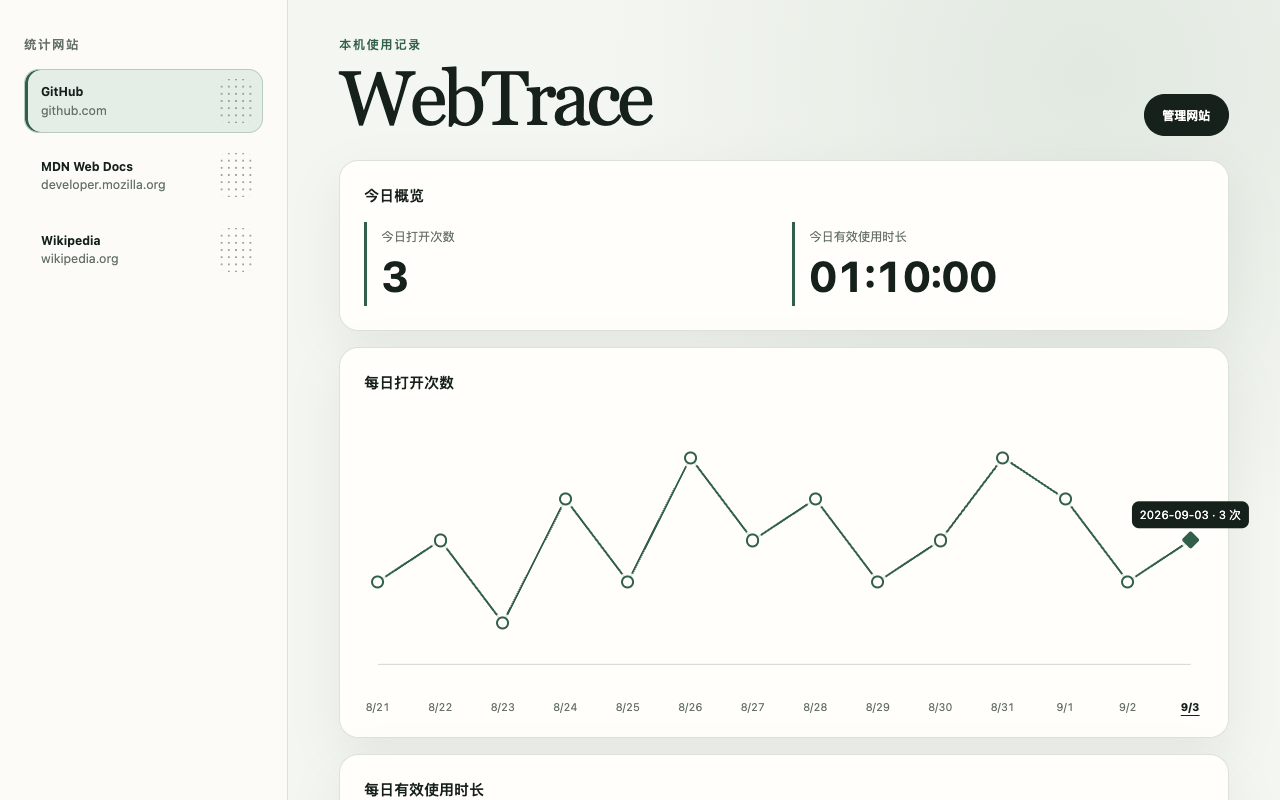
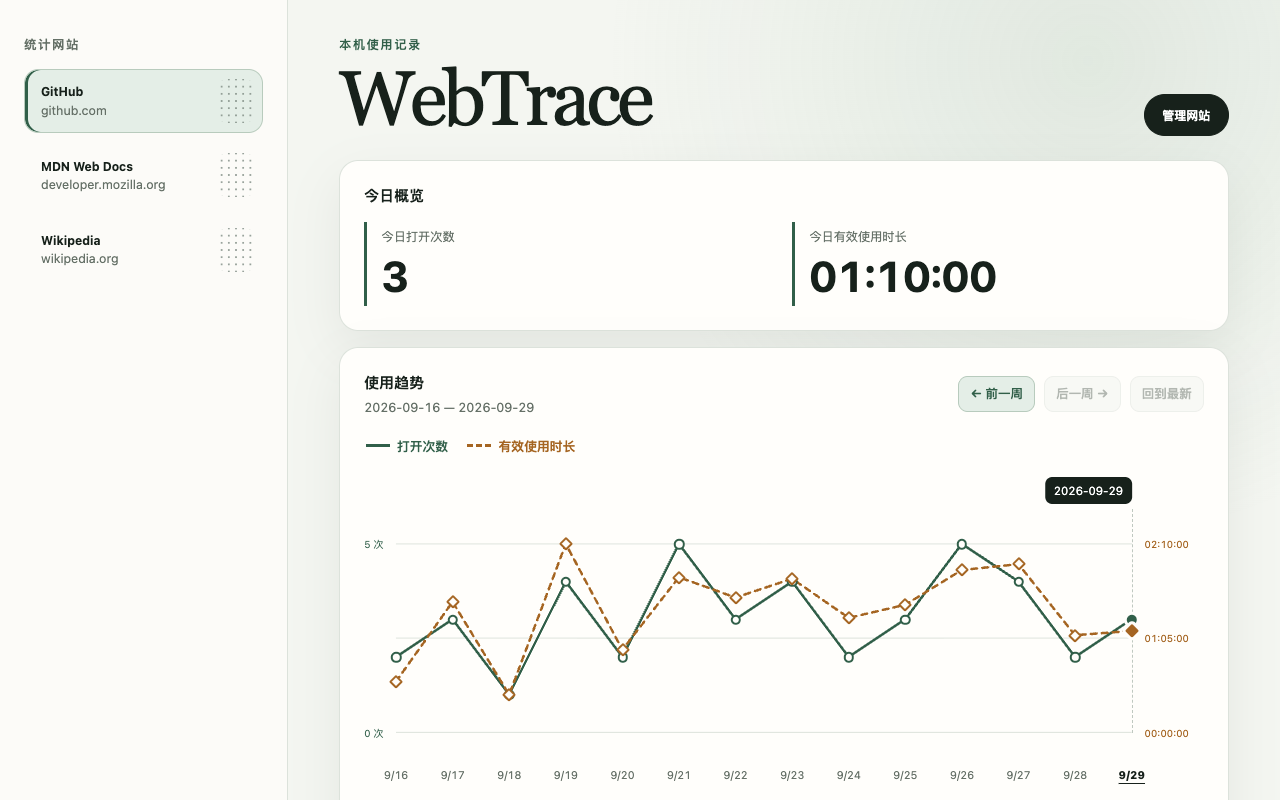
docs: 同步 WebTrace 功能说明与商店素材

diff --git a/src/analysis/view.js b/src/analysis/view.js
@@ -333,7 +333,7 @@ export function createAnalysisView({
     disclosureHeading.setAttribute("id", "privacy-disclosure-title");
     disclosure.setAttribute("aria-labelledby", "privacy-disclosure-title");
     const disclosureSummary = element(document, "p", {
-      text: "WebTrace 会记录你填写的网站名称和主域名、打开时间、结束时间及有效观看时长，用于展示打开次数、最近 14 天趋势和访问明细。",
+      text: "WebTrace 会记录你填写的网站名称和主域名、打开时间、结束时间及有效观看时长，用于展示打开次数、有效时长趋势和访问明细。趋势默认展示最近 14 天，支持按周回看更早记录。",
     });
     const disclosureDetails = element(document, "ul");
     for (const text of [

diff --git a/tests/manifest.test.js b/tests/manifest.test.js
@@ -9,7 +9,7 @@ test("declares only the runtime permissions and HTTP(S) content injection", asyn
   assert.equal(manifest.version, "1.1.0");
   assert.equal(
     manifest.description,
-    "WebTrace 在本机统计你配置的网站打开次数与有效观看时长，并展示最近 14 天趋势和访问明细。",
+    "WebTrace 在本机统计你配置的网站打开次数与有效观看时长，提供可按周回看的 14 天双线趋势和访问明细。",
   );
   assert.equal(manifest.minimum_chrome_version, "102");
   assert.deepEqual(

diff --git a/docs/current/project.md b/docs/current/project.md
@@ -1,8 +1,10 @@
 # 项目当前状态
 
-> 最后更新：2026-09-29（Asia/Shanghai，时间轴交互与验证）；发布资料基线核验于 2026-09-03。
+> 最后更新：2026-09-29（Asia/Shanghai，时间轴交互、文案与截图、用户人工验收与候选包状态）；外部状态见各项核验日期。
 
 当前 WebTrace 支持配置多个网站，在本机记录有效打开和有效观看时长；分析页显示今日概览、每屏 14 个本地日的双线趋势和选中日期的逐次访问明细。时间轴支持每次前后移动一周和回到最新；悬停某条线会突出该指标及每天数值，浮层只显示完整日期。左侧网站列表支持长按排序，添加网站前显著披露本地数据处理并要求主动确认。2026-09-29 当前代码自动测试为 158/158，通过隔离 Chromium 专项验证；本次时间轴改动尚未经日常 Chrome 人工验收。
+
+2026-09-29 用户已确认日常 Google Chrome 中的重新加载、隐私确认、网站新增、实际计时和隐私页面五项人工验收通过。当前时间轴实现及文案与既有上传 ZIP 不一致；本次人工确认尚未绑定具体加载目录、提交或包校验值。发布前需确定最终候选并核验对应安装包。商店后台最后记录仍为 2026-09-03 的未提交状态，本次未登录核验。
 
 ## 内容边界
 
@@ -62,6 +64,7 @@
 - 网站添加、排序和删除历史通过受信任扩展消息交给后台串行处理；网页上下文不能发送管理命令。
 - 运行时代码不调用 `fetch`、`XMLHttpRequest`、`WebSocket` 或 `EventSource`，不加载远程资源，不保存完整 URL、路径、查询参数或网页标题。
 - 访问记录默认长期保留，当前分析页可按周查询和展示最近 14 天以前的数据。
+- 扩展摘要、添加网站前的告知和商店文案已对齐为默认展示最近 14 天、支持按周回看更早记录；此次只更新展示说明，没有改变采集范围、权限、保留、删除或数据传输规则。
 
 ### 商店发布材料
 
@@ -69,8 +72,9 @@
 - `npm run capture:store` 使用 Playwright 自带 Chromium 和临时隔离 profile 重现截图，结束后删除 profile；不读取日常 Chrome 数据。
 - `npm run render:icons` 从可审查的平面母版重现四种图标；宣传图母版由内置 ImageGen 生成，最终素材保存在仓库。
 - [`store-publishing.md`](store-publishing.md) 是商店标题、摘要、详细描述、分类、语言、单一用途、权限理由、隐私实践、URL、测试说明和提交步骤的当前来源。
[1 lines of base64/hex data omitted]
-- `zhangrh.shop` 已公开部署[主页](https://zhangrh.shop/webtrace/)、[支持页](https://zhangrh.shop/webtrace/support/)和[隐私政策](https://zhangrh.shop/webtrace/privacy/)；2026-09-03 在桌面与 390px 视口核验三页、资源和内部链接，无鉴权、404、横向溢出或控制台错误。站点实现 revision 为 `0c83897`，文档收口 revision 为 `59c649f`。
[1 lines of base64/hex data omitted]
+- `zhangrh.shop` 已公开部署[主页](https://zhangrh.shop/webtrace/)、[支持页](https://zhangrh.shop/webtrace/support/)和[隐私政策](https://zhangrh.shop/webtrace/privacy/)；2026-09-29 发布后，隔离 Chromium `151.0.7922.34` 在 1280×800 与 390×844 视口核验新文案、政策日期和截图，无鉴权、404、横向溢出、图片加载失败或控制台错误、警告。公网 HTML 与静态资源内容和本地发布产物一致。
+- 同日官网首页、支持、中英隐私政策、Hub 作品卡及合成截图均已上线；文案说明默认最近 14 天与按周回看，数据处理范围不变。官网内容和发布验证的权威来源为 `zhangrh.shop` 仓库的 `docs/current/project.md` 与 `docs/current/deployment.md`。
 
 ## 有效决定
 
@@ -91,9 +95,9 @@
 - session 标签注册防止正常工具栏操作产生重复分析页，但不会主动关闭用户手工创建的既有重复分析页。
 - 网站排序目前只支持鼠标、触摸或笔等指针操作，没有键盘排序入口；拖动靠近窄屏横向列表边缘时不会自动滚动，需先滚到目标区间再排序。
 - 已收到的顶层非 HTTP/HTTPS 导航会被视为离开统计网站；Chrome 未向当前权限组合暴露的受限内部页导航仍属于平台边界。
-- Developer Dashboard 尚未创建条目、上传 ZIP 或提交审核；商店后台当日显示的数据分类帮助文本和 `zhangrh.shop` Search Console 验证状态仍需人工确认。
-- 本次 Chrome 版本来自本机应用 bundle，而不是从 `chrome://version` 页面读取。
-- 2026-09-03 当前隐私确认改动尚未在用户日常 Google Chrome 中人工重新加载验收；浏览器控制的安全策略禁止自动操作 `chrome://extensions/`，当前覆盖来自隔离 Chromium 和自动测试。
+- Developer Dashboard 最后记录为 2026-09-03 尚未创建条目、上传 ZIP 或提交审核；本次未登录核验。商店后台数据分类帮助文本和 `zhangrh.shop` Search Console 验证状态仍需人工确认。
+- 2026-09-29 人工验收以用户逐项确认为依据。Agent 的日常 Chrome 控制连接超时，未独立读取验收会话的 `chrome://version` 或加载目录；本机已安装 Chrome 的 bundle 版本为 `154.0.8037.58`。
+- 人工确认仅覆盖本次列出的五项，尚未证明历史周切换等分析页改动全部验收通过，也未证明既有 ZIP 与用户加载的版本一致。
 
 ## 验证证据
 
@@ -118,17 +122,20 @@ git diff --check
 - manifest 测试确认版本 `1.1.0`，权限和 HTTP/HTTPS 内容脚本范围与 V1 相同。
 - 2026-09-29 使用 Playwright CLI 与隔离 Chromium `151.0.7922.34` 加载真实扩展，使用合成网站/访问数据验证：连续前后翻周、回到最新和禁用状态、历史数据点键盘选择、今日概览保持、两条真实线段悬停后各显示 14 个数值、峰值数值与日期浮层不重叠、全零数据的图例聚焦，以及 390px 页面不溢出和选点/实时刷新保留横向滚动。此为自动化浏览器验证，不记作日常 Chrome 人工验收。
 - 同日同版本隔离 Chromium 检查横向滚动边界：1280、1440、1920px 视口下，两种指标高亮时图表的 `scrollWidth` 与 `clientWidth` 均相等，右轴刻度未超出画布；390px 下图内滚动保留，选点前后滚动位置一致，页面不溢出。
-- 商店素材与既有 ZIP 的验证基线仍为 2026-09-03：隔离 Chromium 截图和隐私确认流程、ZIP 解压后清单与语法检查通过；本次未重新生成商店截图或上传包，它们尚不包含时间轴的新界面。
+- 2026-09-29 通过 `npm run capture:store` 在隔离 Chromium 中重新生成两张 1280×800 产品截图，并检查双线图、周切换按钮和更新后的隐私告知；只使用合成网站与访问数据，截图过程无浏览器错误。
+- 既有 ZIP 的清单和解压后语法检查基线仍为 2026-09-03；本次未重新生成上传包，它尚不包含当前时间轴实现及文案。
 
 ### Chrome 验收
 
-- 日期：2026-09-02；浏览器：Google Chrome `152.0.7977.65`，版本来自本机应用 bundle。
-- 用户在 `chrome://extensions` 重新加载未打包扩展并打开 WebTrace 分析页后确认通过。
-- 用户确认覆盖：日期选择已移除、趋势固定为最近 14 天、今日概览正常、图表点选择正常、访问明细按选中日期展示。
-- 该次 V1.1 改动后，Agent 在同一 Chrome 中重新加载既有未打包扩展并打开分析页，确认页面可显示已有网站列表、今日概览、趋势和访问明细。
-- 2026-09-03 的浏览器控制安全策略拒绝操作 `chrome://extensions/` 与 `chrome-extension://` 页面，因此未把当前隐私确认或长按排序写成人工 Chrome 通过；这些场景由 148 项自动测试和隔离 Chromium 验证覆盖。
-- V1 打开、计时、恢复、分析页复用和权限范围由既有 Chrome 证据与当次自动回归共同覆盖。
+- 日期：2026-09-29（Asia/Shanghai）；浏览器：用户日常 Google Chrome；证据来源：用户在本次对话中的逐项人工确认。
+- 重新加载：用户确认没有问题。
+- 隐私政策确认：用户确认没有问题。
+- 网站新增：用户确认没有问题。
+- 实际计时：用户明确表示已经测试、没有问题。
+- 隐私政策页面：用户确认没有问题。
+- 验收边界：未独立核验用户加载的目录、提交或包校验值；未将本次确认扩大为排序、删除、锁屏、重启或新增历史周切换的专项验收。
 - 本次时间轴专项：2026-09-29 日常 Chrome 控制连接两次超时，未完成扩展管理页重新加载及人工场景验证；覆盖来自上述隔离 Chromium 验证。
+- 既有 V1.1 分析页验收仍有效：2026-09-02，Google Chrome `152.0.7977.65`（当时 bundle 版本），用户确认固定 14 天趋势、今日概览、图表选择和访问明细通过。
 
 ## 证据入口
 

diff --git a/store-assets/README.md b/store-assets/README.md
@@ -1,12 +1,12 @@
 # WebTrace 商店图片
 
-生成日期：2026-09-03
+产品截图更新日期：2026-09-29；品牌图标和宣传图生成日期：2026-09-03。
 
 本目录只包含发布到 Chrome Web Store 所需的公开图片。两张产品截图均来自仓库中的真实扩展页面，数据为纯合成数据；生成脚本每次使用临时的隔离 Chrome 配置，不读取日常浏览器的历史、Cookie、账号或扩展数据。
 
 ## 文件
 
-- `screenshots/01-dashboard-1280x800.png`：仪表盘首页，展示三个示例网站、今日概览和 14 天打开次数趋势。
+- `screenshots/01-dashboard-1280x800.png`：仪表盘首页，展示三个示例网站、今日概览、14 天双线趋势和按周浏览按钮。
 - `screenshots/02-add-site-1280x800.png`：网站管理对话框，展示添加网站前的本地数据处理告知与确认。
 - `promo/small-promo-440x280.png`：商店 440×280 小型宣传图。
 - `source/webtrace-brand-master.svg`：可审查的平面品牌图形源文件。
